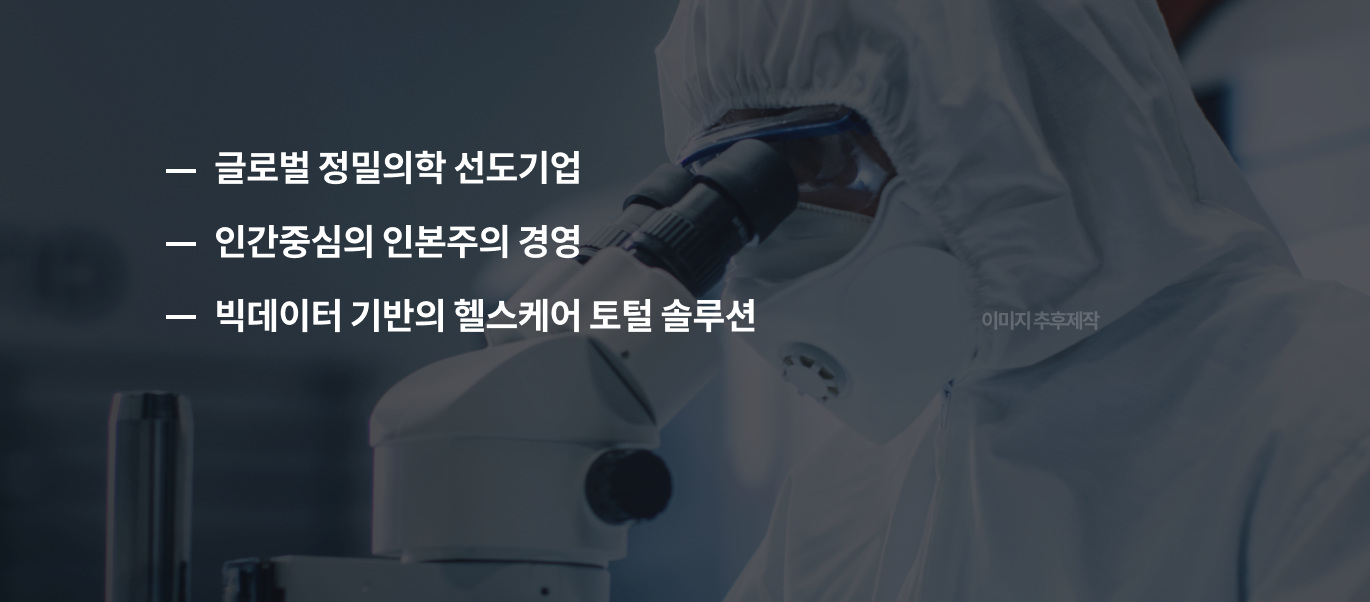
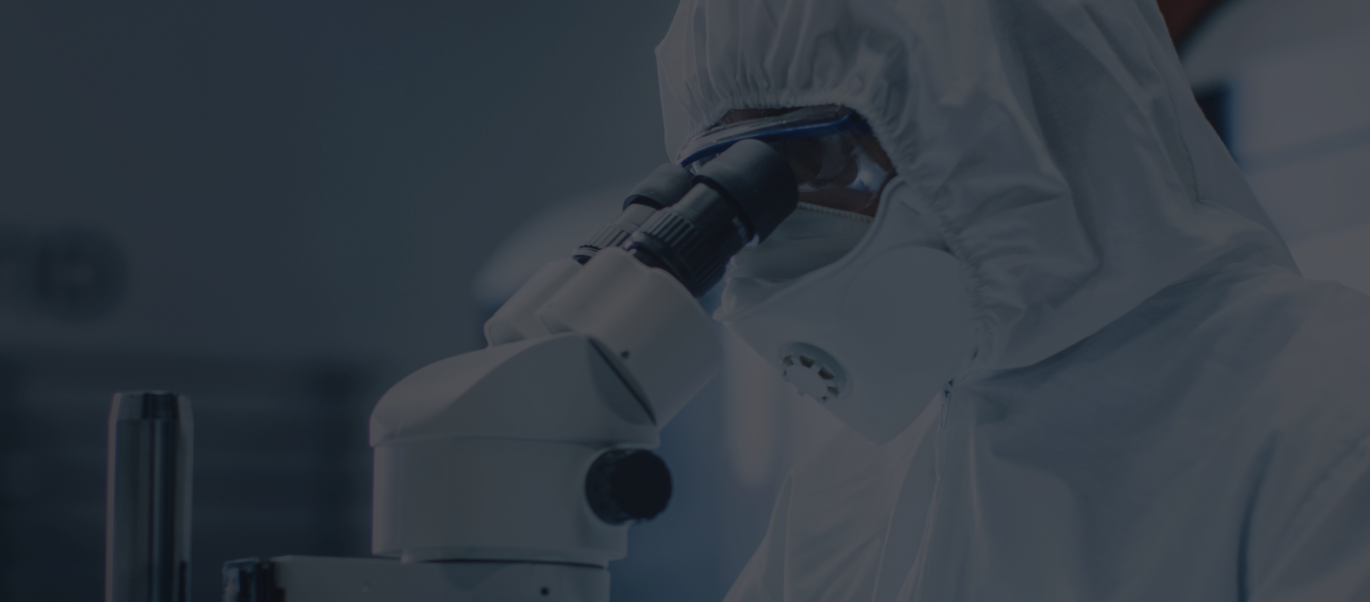
디자인 수정 적용

diff --git a/pc-ko/src/html/macrogen/01Macrogen_01기업개요.html b/pc-ko/src/html/macrogen/01Macrogen_01기업개요.html
@@ -24,21 +24,22 @@
                 <div class="title">Humanizing<br/>Genomics</div>
                 <div class="title-sm">모두가 건강한 세상을 꿈꾸는 기업 마크로젠입니다</div>
                 <div class="text-box">
-                    <div class="text">
+                    <div class="font-body-h">
                         정밀의학 생명공학기업 마크로젠은 1997년 6월 5일 서울대학교 의과대학 유전체 의학연구소를 모태로 설립되었으며, 2000년 2월 한국 바이오 벤처기업 최초로 코스닥에 상장했습니다.<br/><br/>
-                        이후 유전자 및 유전체 분석 분야에서 꾸준한 연구개발 활동을 하고 있으며 주요 사업 이외에도 다양한 사회공헌 활동을 통해 바이오 산업 발전에 기여하고 있습니다.
+                        이후 유전자 및 유전체 분석 분야에서 꾸준한 연구개발 활동을 하고 있으며 주요 사업 이외에도 다양한 사회공헌 활동을 통해 바이오 산업 발전에 기여하고 있습니다.<br/>
+                        마크로젠은 유전체 정보에 기반한 개인별 맞춤 의료 정보를 제공함으로써 21세기 정밀의학 실현에 앞장설 뿐 아니라 탁월한 기술력을 바탕으로  다양한 사업분야에서 전 세계 유전체 분석 시장을 선도합니다.
                     </div>
                     <div class="text">
-                        마크로젠은 유전체 정보에 기반한 개인별 맞춤 의료 정보를 제공함으로써 21세기 정밀의학 실현에 앞장설 뿐 아니라 탁월한 기술력을 바탕으로  다양한 사업분야에서 전 세계 유전체 분석 시장을 선도합니다.
                     </div>
                 </div>
                 <div class="img-box">
-                    <div class="bg">
-<!--                        <ul class="list">-->
-<!--                            <li>글로벌 정밀의학 선도기업</li>-->
-<!--                            <li>인간중심의 인본주의 경영</li>-->
-<!--                            <li>빅데이터 기반의 헬스케어 토털 솔루션</li>-->
-<!--                        </ul>-->
+                    <div class="inner">
+                        <div class="img"><img src="../../img/@temp/macrogen/macrogen_thumb_lg_1.png" alt="글로벌 정밀의학 선도기업"></div>
+                        <ul class="list">
+                            <li>글로벌 정밀의학 선도기업</li>
+                            <li>인간중심의 인본주의 경영</li>
+                            <li>빅데이터 기반의 헬스케어 토털 솔루션</li>
+                        </ul>
                     </div>
                 </div>
             </div>

diff --git a/pc-ko/src/scss/page/macrogen.scss b/pc-ko/src/scss/page/macrogen.scss
@@ -137,38 +137,43 @@ $min-width: 1244px;
       }
 
       .text-box {
-        display: flex;
-        justify-content: flex-end;
         width: $min-width;
         margin: 0 auto 108px;
+        padding-left: 215px;
 
-        .text {
+        .font-body-h {
           display: inline-block;
+          font-weight: 400;
           text-align: left;
-          width: 495px;
-          font-size: 18px;
-          line-height: 32px;
-          letter-spacing: -0.75px;
           color: #454545;
-
-          &:first-child {
-            margin-right: 40px;
-          }
         }
       }
 
       .img-box {
-        .bg {
-          @include background-img($width: 100%, $height: 602px, $category: '@temp/macrogen', $img: 'macrogen_thumb_lg_1.png');
-          background-size: 1370px 602px;
-          background-position: top right;
-          background-repeat: no-repeat;
-          padding-top: 139px;
+        width: 100%;
+        height: 602px;
+        margin-bottom: 152px;
+        overflow: hidden;
+
+        .inner {
+          position: absolute;
+          width: 100%;
+          height: 602px;
+
+          .img {
+            text-align: right;
+
+            img {
+              display: inline-block;
+              width: 1370px;
+              height: 602px;
+            }
+          }
 
           .list {
-            width: $min-width;
-            margin: 0 auto;
-            padding-left: 379px;
+            position: absolute;
+            right: 611px;
+            top: 139px;
 
             li {
               position: relative;

diff --git a/pc-ko/src/css/macrogen_component_pc.css b/pc-ko/src/css/macrogen_component_pc.css
@@ -9297,7 +9297,6 @@ p {
 
 .font-h8 {
   font-size: 22px;
-  font-weight: 700;
   line-height: 36px;
   letter-spacing: -0.75px; }
 

diff --git a/component/src/scss/component/_typography.scss b/component/src/scss/component/_typography.scss
@@ -65,7 +65,6 @@
 
 .font-h8 {
   font-size: 22px;
-  font-weight: 700;
   line-height: 36px;
   letter-spacing: -0.75px;
 }
